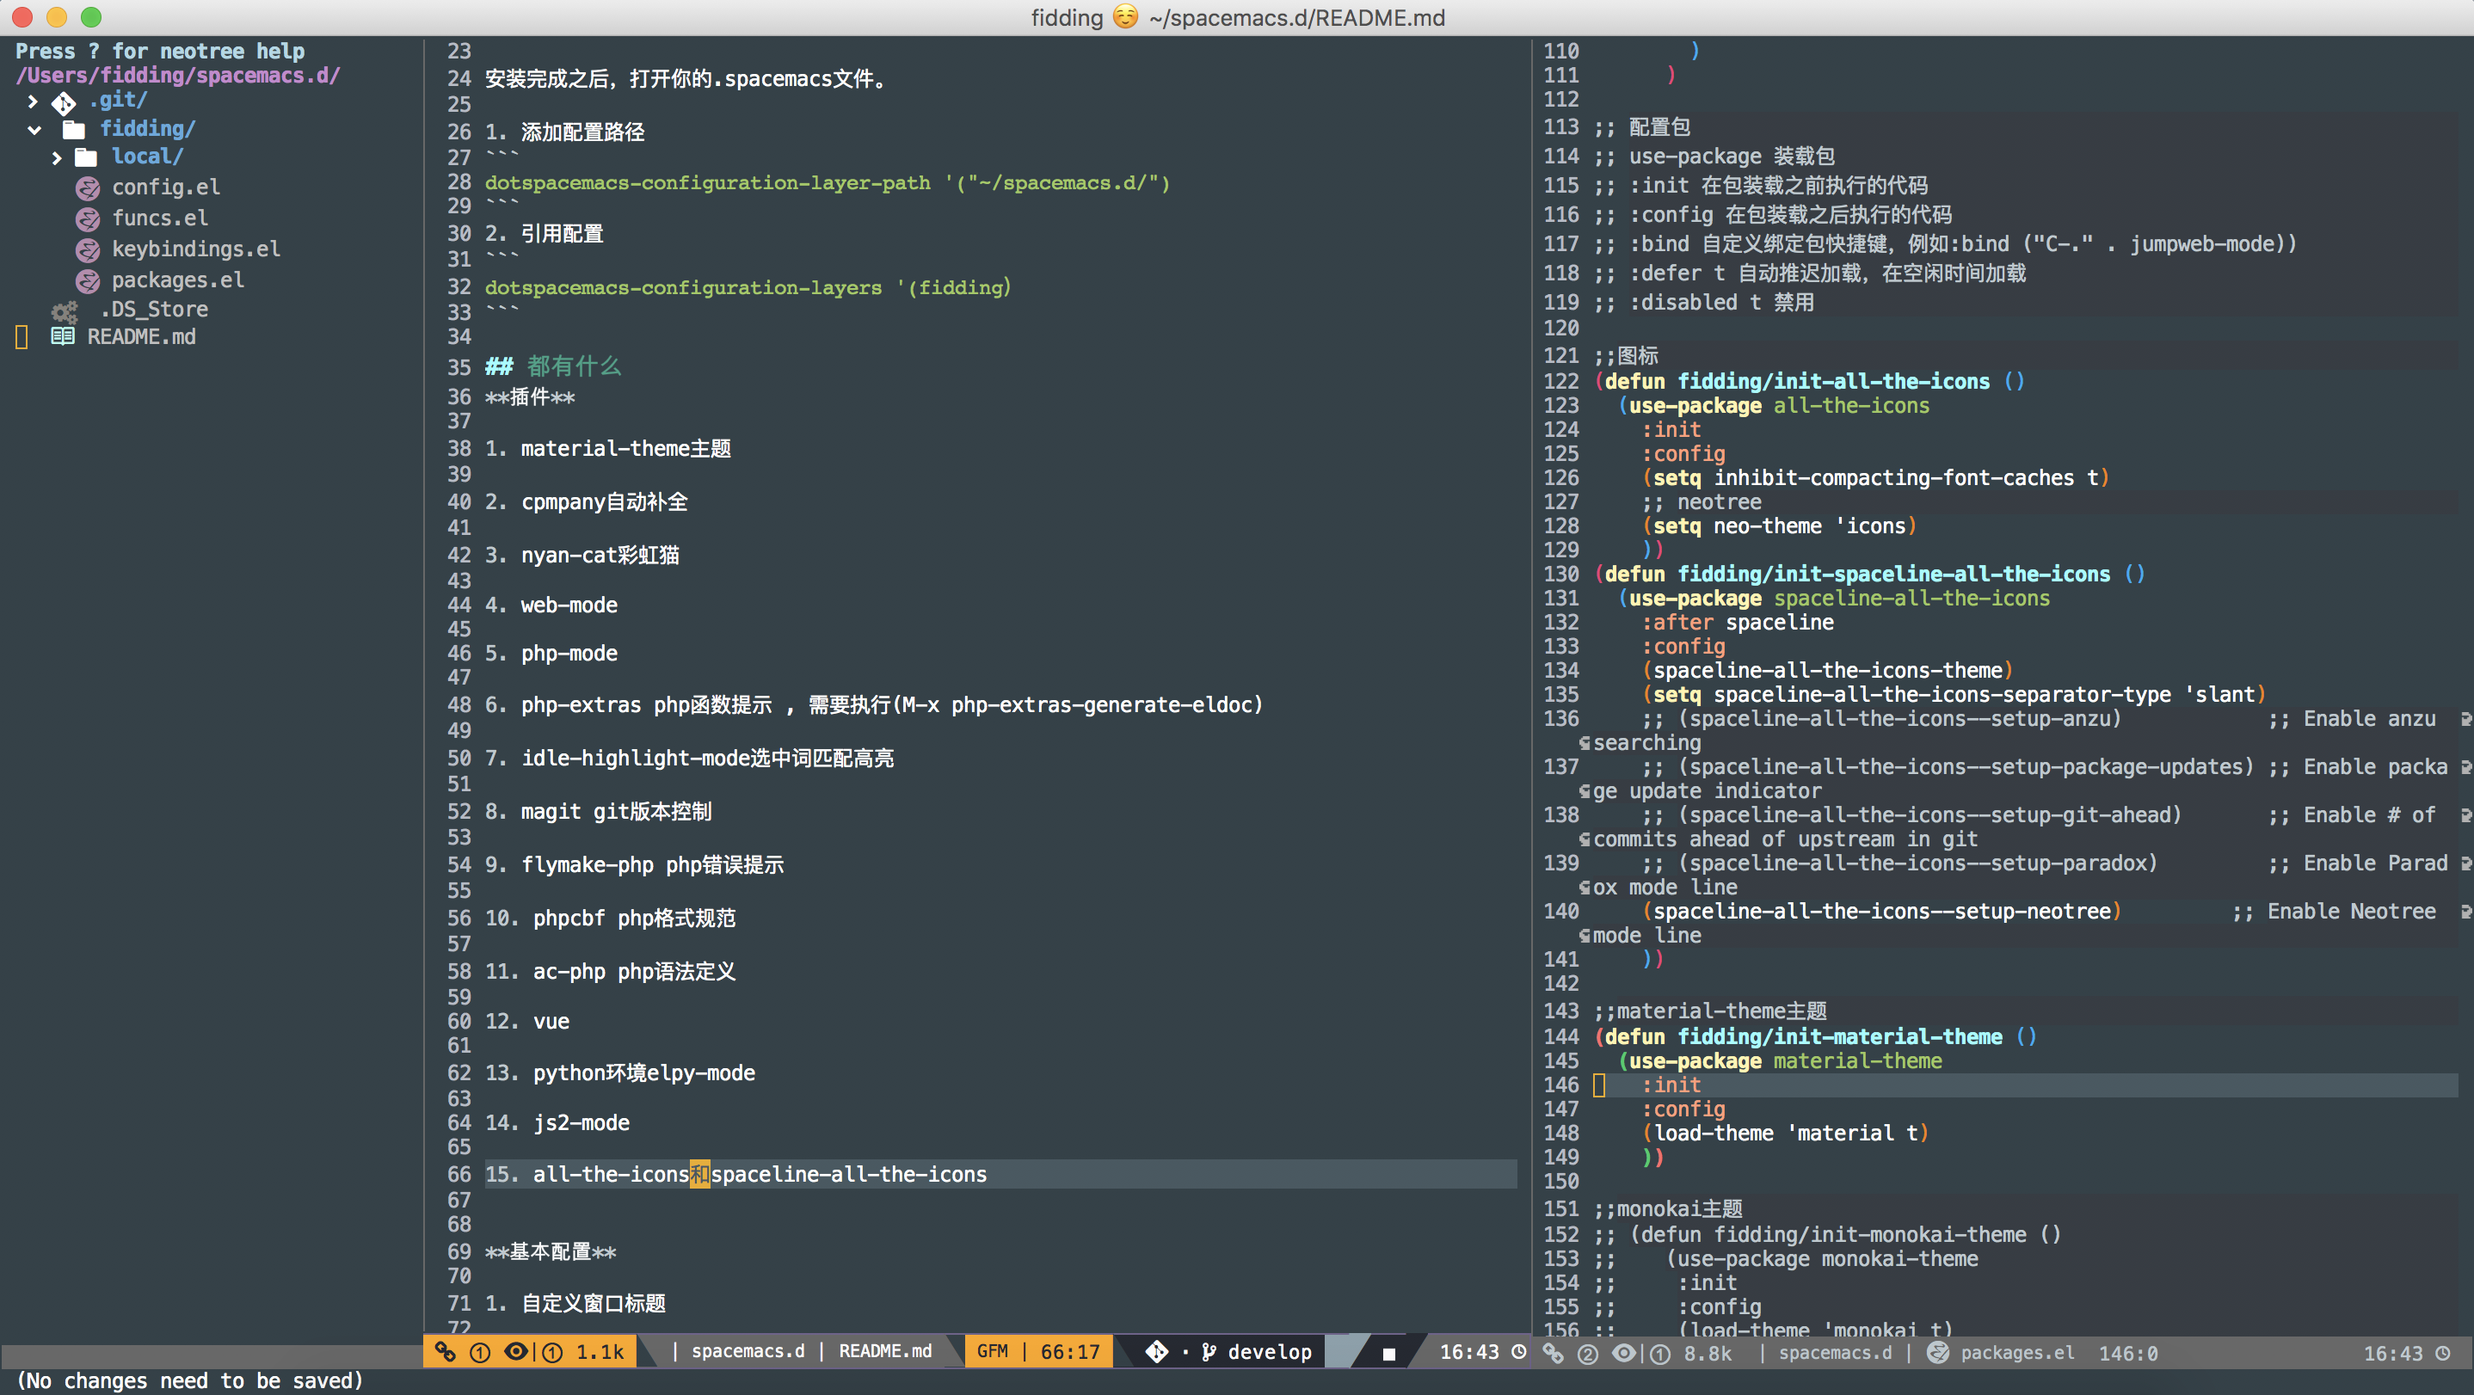
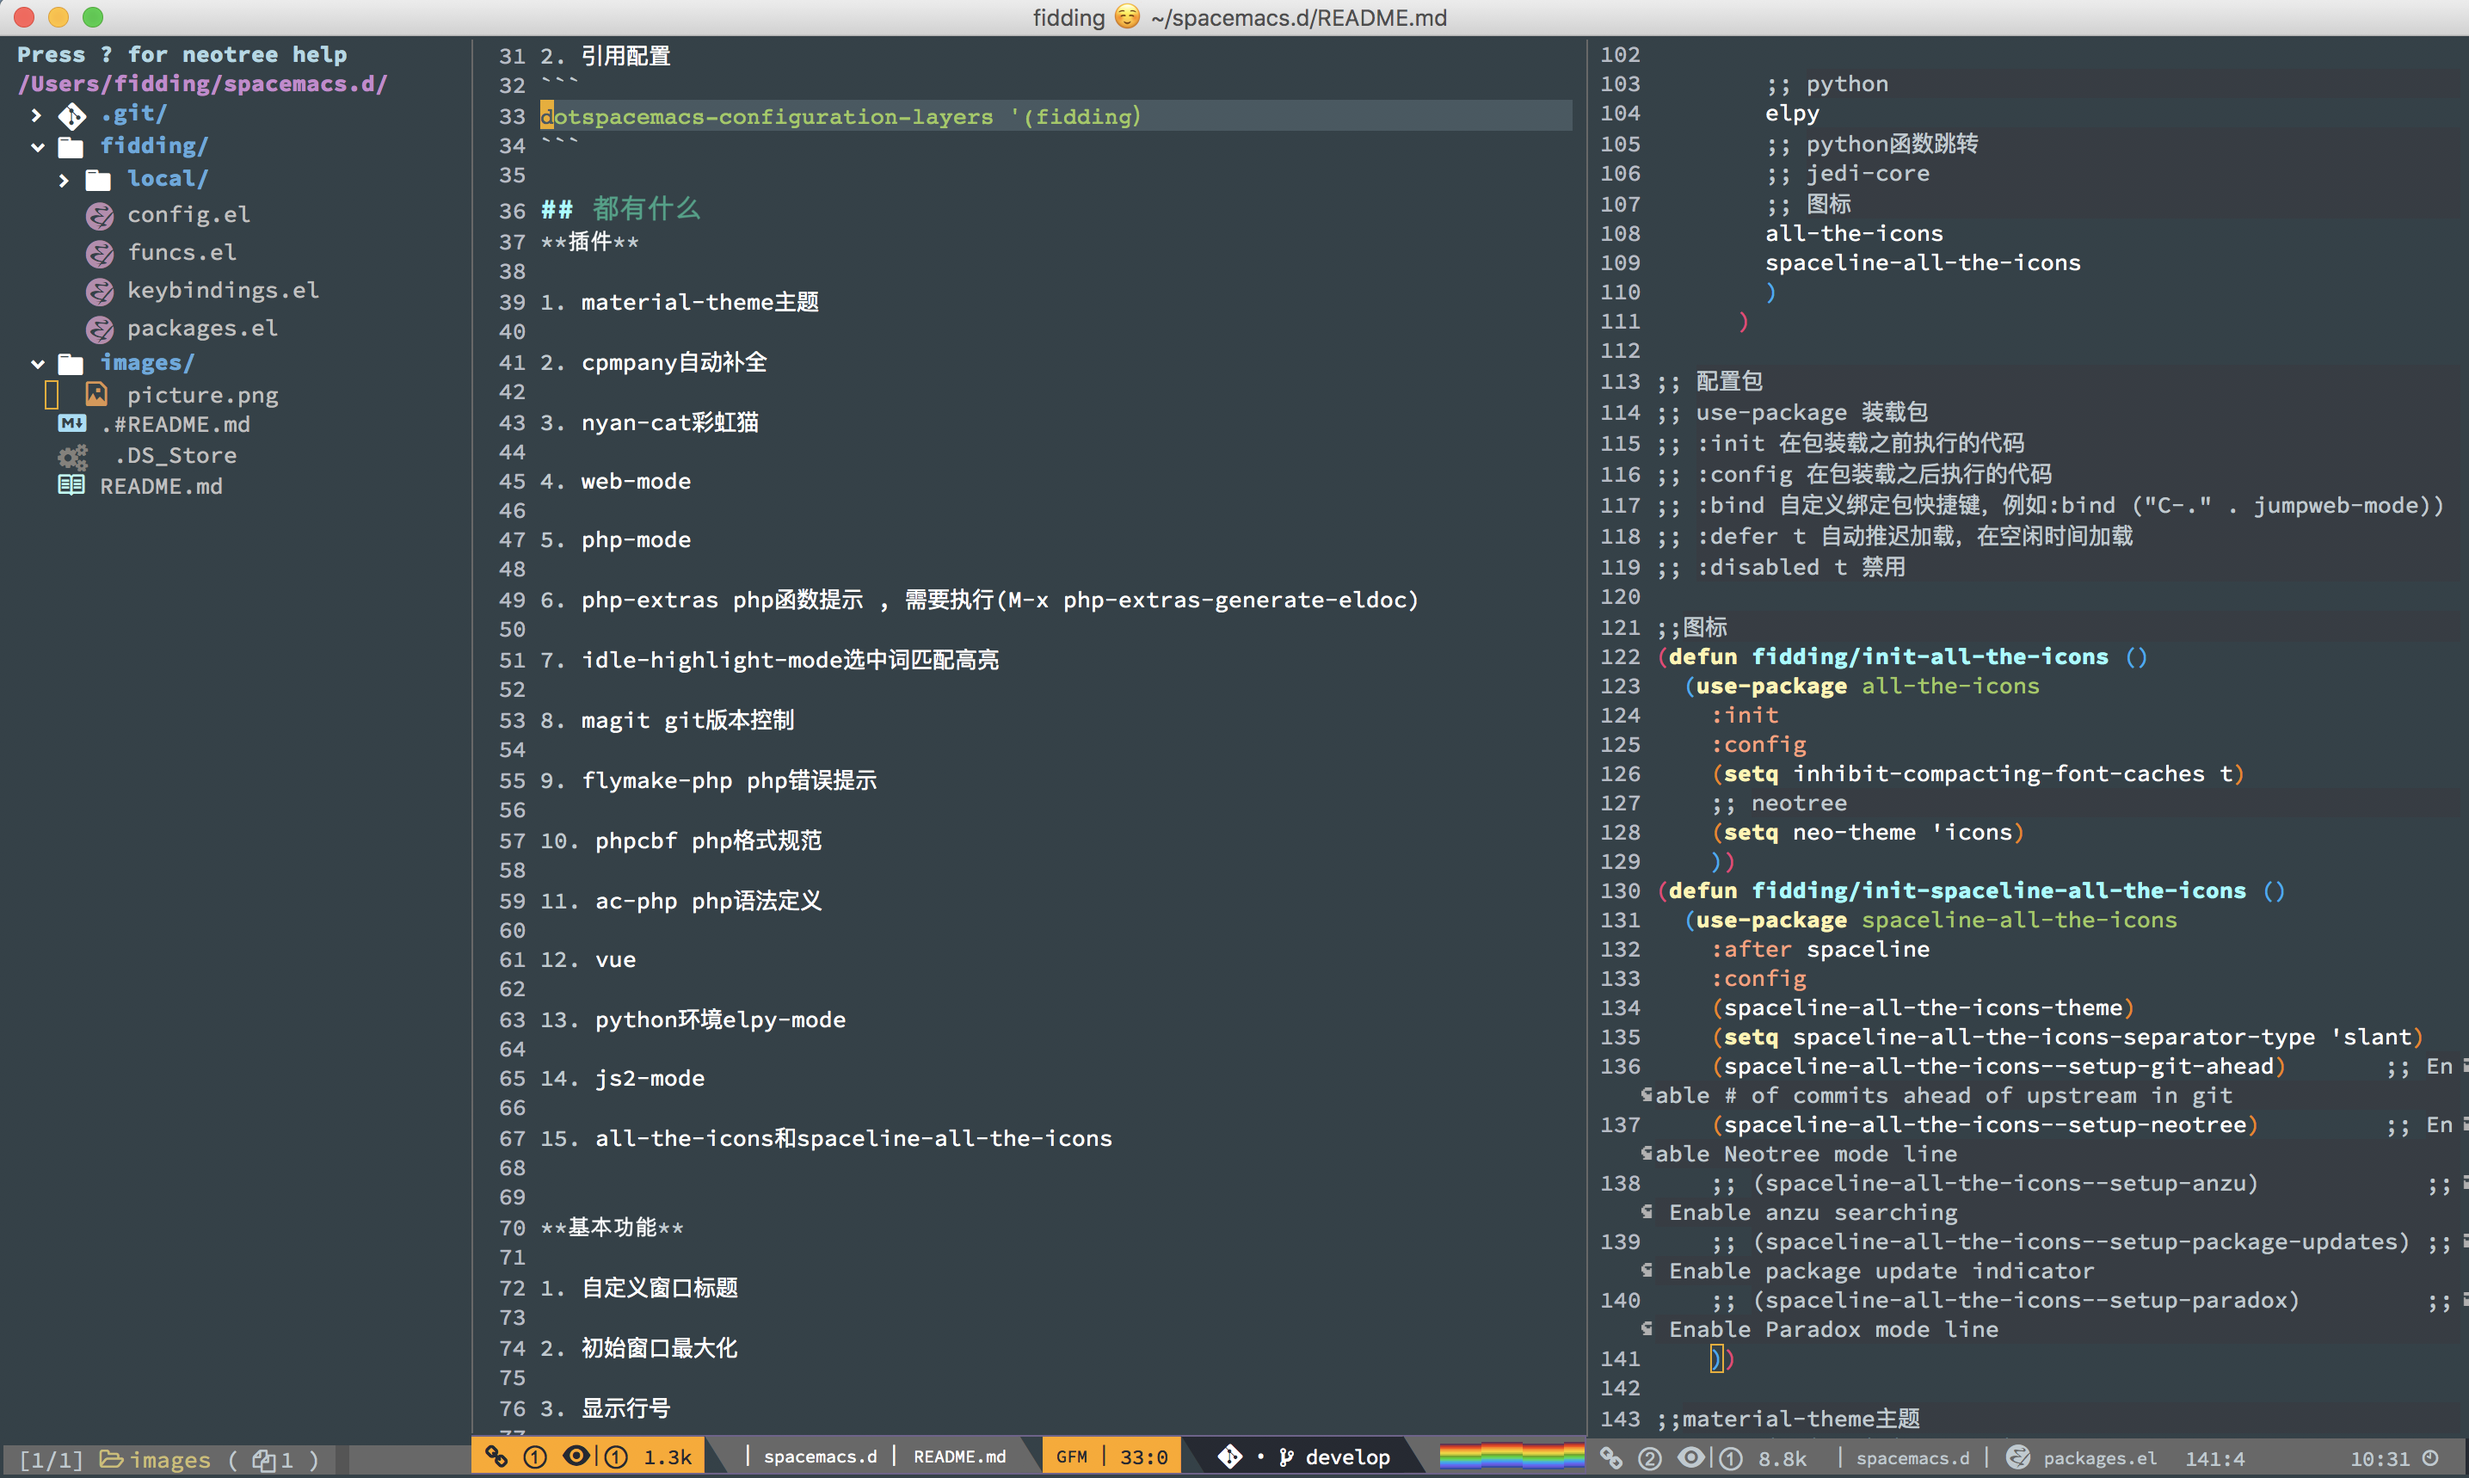
updated readme

diff --git a/README.md b/README.md
@@ -67,7 +67,7 @@ dotspacemacs-configuration-layers '(fidding）
 15. all-the-icons和spaceline-all-the-icons
 
 
-**基本配置**
+**基本功能**
 
 1. 自定义窗口标题
 
@@ -79,16 +79,21 @@ dotspacemacs-configuration-layers '(fidding）
 
 5. web, php, python环境开发
 
-**python环境开发要求**
-1. elpy-mode使用需要安装额外包
-``` shell
-// mac系统
-pip install rope
-pip install jedi
-pip install flake8
-pip install autopep8
-pip install yapf
-```
+**环境配置**
+
+1. emacs指令安装```all-the-icons```字体[emacs]
+   ```
+   M-x all-the-icons-install-fonts
+   ```
+
+2. python开发:elpy-mode使用需要安装额外包[shell]
+   ``` shell
+    pip install rope
+    pip install jedi
+    pip install flake8
+    pip install autopep8
+    pip install yapf
+    ```
 
 ***
 **将持续更新，欢迎star&fork!!**
